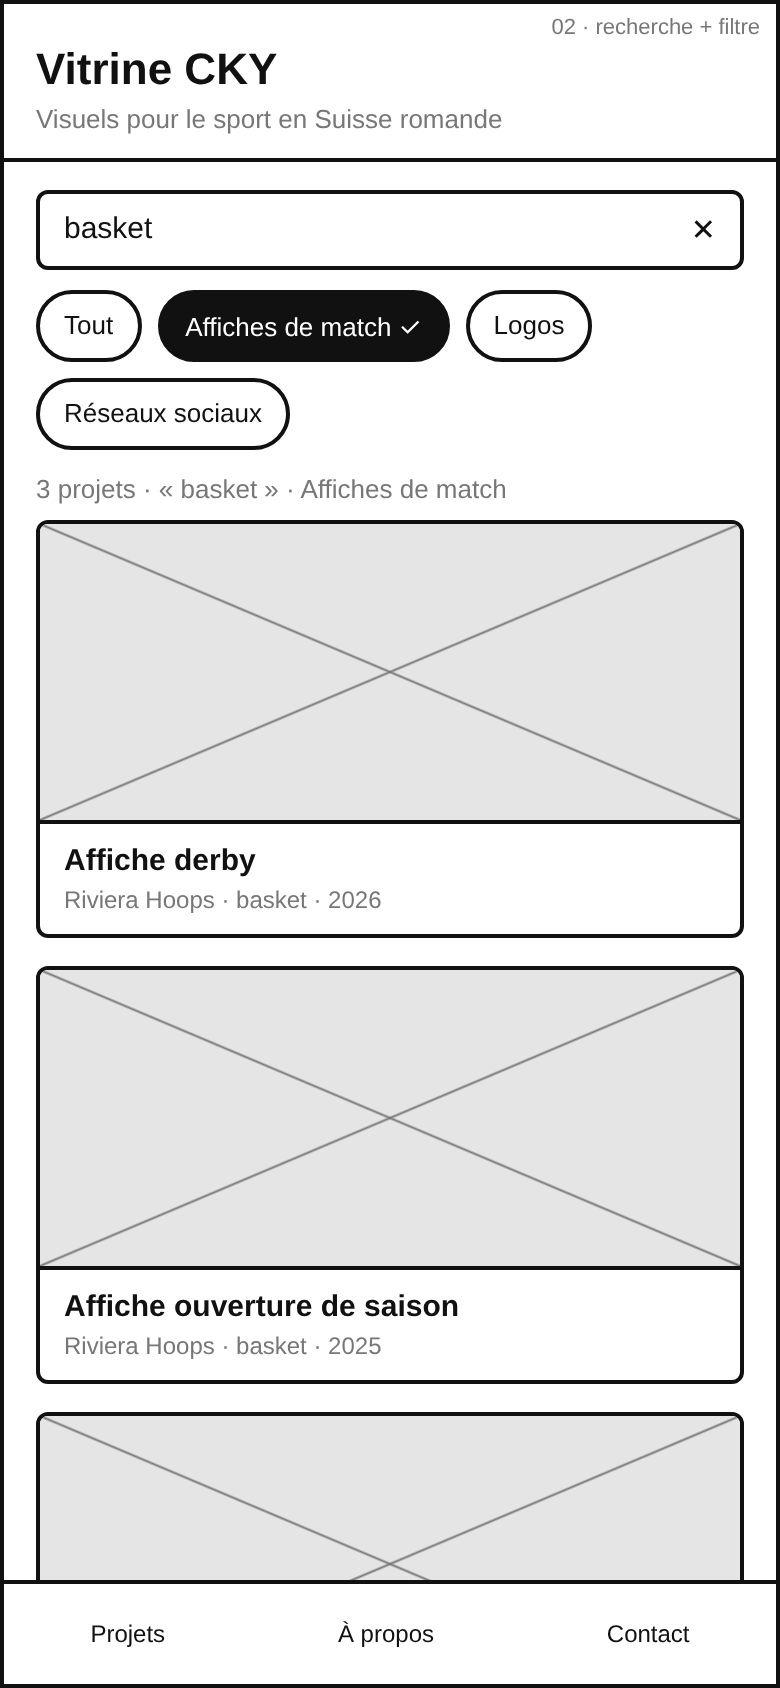
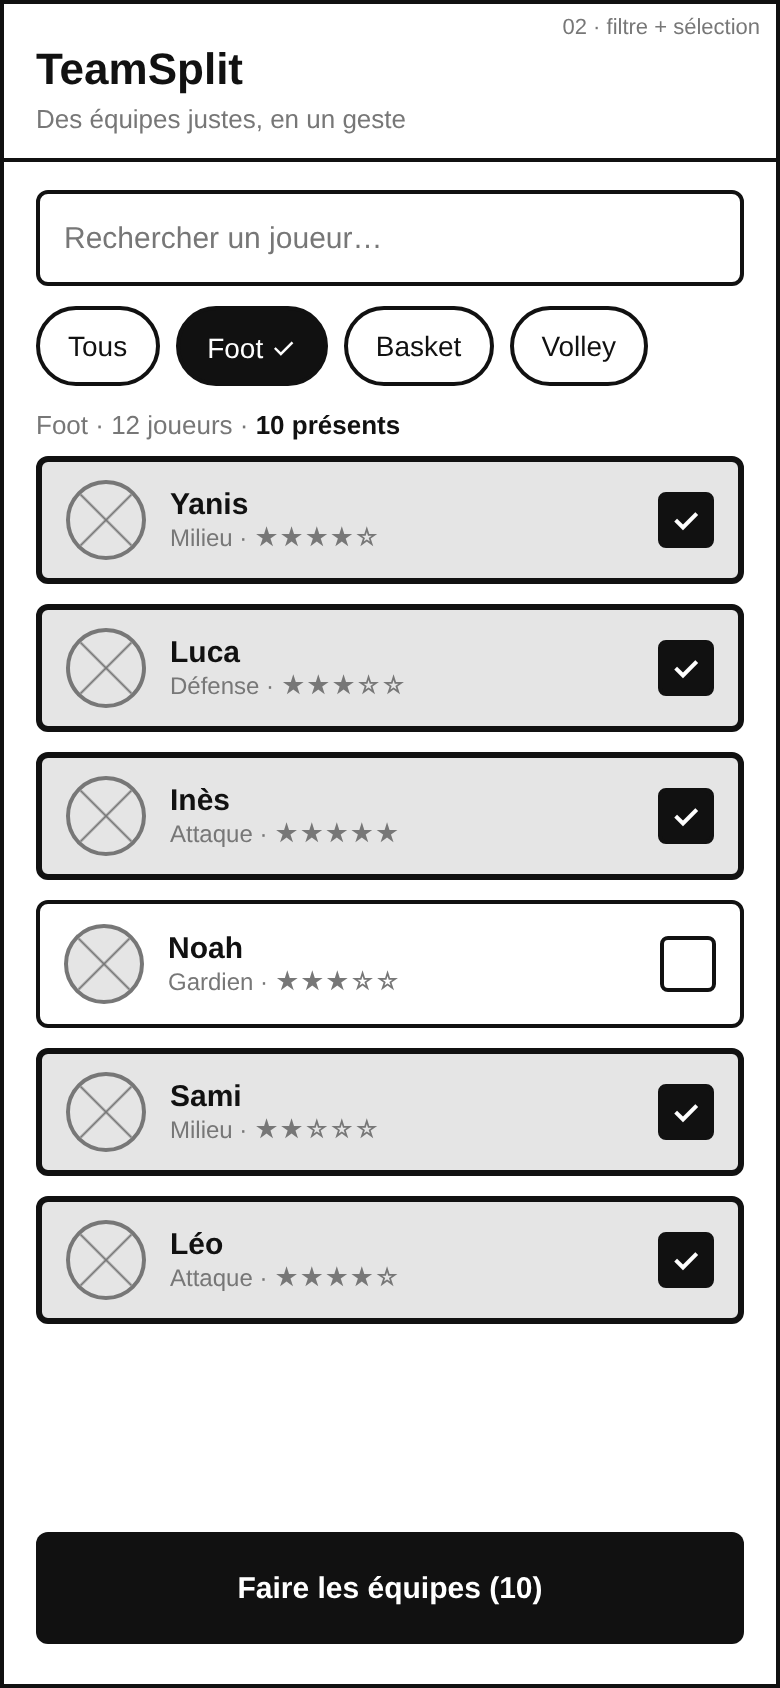
Refait les 3 wireframes mobiles pour TeamSplit
Claude-Session: https://claude.ai/code/session_014bpzwAFyoYVvidTmmvTUgp

diff --git a/design/wireframes/wireframes.html b/design/wireframes/wireframes.html
@@ -3,7 +3,7 @@
 <head>
 <meta charset="utf-8">
 <meta name="viewport" content="width=device-width, initial-scale=1">
-<title>Wireframes · Vitrine CKY</title>
+<title>Wireframes · TeamSplit</title>
 <style>
   /* Basse fidélité : uniquement noir, blanc et gris. */
   :root { --noir:#111; --gris:#777; --clair:#e5e5e5; --fond:#fff; }
@@ -16,80 +16,76 @@
   header .sous { font-size:13px; color:var(--gris); margin-top:4px; }
   .recherche { margin:14px 16px 10px; height:48px; border:2px solid var(--noir); border-radius:6px; display:flex; align-items:center; padding:0 12px; font-size:15px; color:var(--gris); }
   .recherche.rempli { color:var(--noir); }
-  .puces { display:flex; gap:8px; padding:0 16px 12px; flex-wrap:wrap; }
-  .puce { height:36px; padding:0 12px; border:2px solid var(--noir); border-radius:18px; display:flex; align-items:center; font-size:13px; }
+  .puces { display:flex; gap:8px; padding:0 16px 12px; }
+  .puce { height:40px; padding:0 14px; border:2px solid var(--noir); border-radius:20px; display:flex; align-items:center; font-size:14px; }
   .puce.on { background:var(--noir); color:#fff; }
   .compteur { padding:0 16px 8px; font-size:13px; color:var(--gris); }
-  .liste { padding:0 16px; display:flex; flex-direction:column; gap:14px; overflow:hidden; }
-  .carte { border:2px solid var(--noir); border-radius:6px; overflow:hidden; flex-shrink:0; }
-  .img { position:relative; background:var(--clair); height:150px; border-bottom:2px solid var(--noir); }
-  .img::before, .img::after { content:""; position:absolute; inset:0; background:linear-gradient(to top right, transparent calc(50% - 1px), var(--gris) 50%, transparent calc(50% + 1px)); }
-  .img::after { background:linear-gradient(to top left, transparent calc(50% - 1px), var(--gris) 50%, transparent calc(50% + 1px)); }
-  .img.grand { height:300px; }
-  .infos { padding:10px 12px; }
-  .ligne { height:12px; background:var(--noir); border-radius:2px; width:70%; margin-bottom:8px; }
-  .ligne.gris { background:#bbb; width:45%; height:10px; margin:0; }
+  .compteur b { color:var(--noir); }
+  .liste { padding:0 16px; display:flex; flex-direction:column; gap:10px; }
+  .joueur { flex-shrink:0; height:64px; border:2px solid var(--noir); border-radius:6px; display:flex; align-items:center; gap:12px; padding:0 12px; }
+  .joueur.on { background:var(--clair); border-width:3px; }
+  .avatar { width:40px; height:40px; border-radius:50%; border:2px solid var(--gris); position:relative; overflow:hidden; background:var(--clair); }
+  .avatar::before, .avatar::after { content:""; position:absolute; inset:0; background:linear-gradient(45deg, transparent calc(50% - 1px), var(--gris) 50%, transparent calc(50% + 1px)); }
+  .avatar::after { background:linear-gradient(-45deg, transparent calc(50% - 1px), var(--gris) 50%, transparent calc(50% + 1px)); }
+  .qui { flex:1; }
   .label { font-size:15px; font-weight:700; }
-  .meta { font-size:12px; color:var(--gris); margin-top:4px; }
-  .detail { padding:16px; }
-  .detail h2 { margin:0 0 6px; font-size:22px; }
-  .tableau { display:grid; grid-template-columns:auto 1fr; gap:6px 14px; font-size:13px; margin:14px 0; }
-  .tableau dt { color:var(--gris); } .tableau dd { margin:0; }
-  .texte .ligne { background:#bbb; height:10px; width:100%; } .texte .ligne:last-child { width:60%; }
-  .retour { font-size:14px; padding:14px 16px; border-bottom:2px solid var(--noir); }
+  .meta { font-size:12px; color:var(--gris); }
+  .case { width:28px; height:28px; border:2px solid var(--noir); border-radius:4px; display:flex; align-items:center; justify-content:center; font-weight:700; }
+  .joueur.on .case { background:var(--noir); color:#fff; }
   .cta { position:absolute; left:16px; right:16px; bottom:20px; height:56px; background:var(--noir); color:#fff; border-radius:6px; display:flex; align-items:center; justify-content:center; font-weight:700; font-size:15px; }
-  .nav { margin-top:auto; height:64px; border-top:2px solid var(--noir); display:flex; justify-content:space-around; align-items:center; font-size:12px; background:#fff; position:relative; z-index:1; }
+  .cta.off { background:var(--clair); color:var(--gris); border:2px dashed var(--gris); }
+  .aide { position:absolute; left:16px; right:16px; bottom:84px; font-size:12px; color:var(--gris); text-align:center; }
+  .retour { font-size:14px; padding:14px 16px; border-bottom:2px solid var(--noir); }
+  .contenu { padding:16px; }
+  .contenu h2 { margin:0 0 4px; font-size:22px; }
+  .ecart { font-size:14px; margin-bottom:14px; border:2px solid var(--noir); border-radius:6px; padding:10px 12px; }
+  .colonnes { display:grid; grid-template-columns:1fr 1fr; gap:10px; }
+  .equipe { border:2px solid var(--noir); border-radius:6px; padding:10px; }
+  .eq-titre { font-weight:700; font-size:17px; }
+  .total { font-size:12px; margin:2px 0 8px; padding-bottom:8px; border-bottom:2px solid var(--noir); }
+  .equipe ul { list-style:none; margin:0; padding:0; }
+  .equipe li { display:flex; flex-direction:column; padding:6px 0; border-bottom:1px solid var(--clair); font-size:14px; }
+  .boutons { position:absolute; left:16px; right:16px; bottom:20px; display:grid; grid-template-columns:1fr 1fr; gap:10px; }
+  .boutons div { height:56px; border-radius:6px; display:flex; align-items:center; justify-content:center; font-weight:700; font-size:15px; border:2px solid var(--noir); }
+  .boutons .plein { background:var(--noir); color:#fff; }
 </style>
 </head>
 <body>
 
-<!-- Écran 1 : accueil et exploration -->
+<!-- Écran 1 : accueil et liste des joueurs -->
 <section class="ecran" id="s1">
   <span class="note">01 · accueil</span>
-  <header><div class="titre">Vitrine CKY</div><div class="sous">Visuels pour le sport en Suisse romande</div></header>
-  <div class="recherche">Rechercher un sport, un club…</div>
-  <div class="puces"><span class="puce on">Tout</span><span class="puce">Affiches de match</span><span class="puce">Logos</span><span class="puce">Réseaux sociaux</span></div>
-  <div class="compteur">12 projets</div>
-  <div class="liste">
-    <div class="carte"><div class="img"></div><div class="infos"><div class="label">Titre du projet</div><div class="meta">Club · sport · année</div></div></div>
-    <div class="carte"><div class="img"></div><div class="infos"><div class="label">Titre du projet</div><div class="meta">Club · sport · année</div></div></div>
-    <div class="carte"><div class="img"></div><div class="infos"><div class="label">Titre du projet</div><div class="meta">Club · sport · année</div></div></div>
-  </div>
-  <nav class="nav"><span>Projets</span><span>À propos</span><span>Contact</span></nav>
+  <header><div class="titre">TeamSplit</div><div class="sous">Des équipes justes, en un geste</div></header>
+  <div class="recherche">Rechercher un joueur…</div>
+  <div class="puces"><span class="puce on">Tous</span><span class="puce">Foot</span><span class="puce">Basket</span><span class="puce">Volley</span></div>
+  <div class="compteur">14 joueurs · <b>0 présent</b></div>
+  <div class="liste"><div class="joueur"><div class="avatar"></div><div class="qui"><div class="label">Prénom</div><div class="meta">Poste · ★★★☆☆</div></div><div class="case"></div></div><div class="joueur"><div class="avatar"></div><div class="qui"><div class="label">Prénom</div><div class="meta">Poste · ★★★★☆</div></div><div class="case"></div></div><div class="joueur"><div class="avatar"></div><div class="qui"><div class="label">Prénom</div><div class="meta">Poste · ★★☆☆☆</div></div><div class="case"></div></div><div class="joueur"><div class="avatar"></div><div class="qui"><div class="label">Prénom</div><div class="meta">Poste · ★★★★★</div></div><div class="case"></div></div><div class="joueur"><div class="avatar"></div><div class="qui"><div class="label">Prénom</div><div class="meta">Poste · ★★★☆☆</div></div><div class="case"></div></div><div class="joueur"><div class="avatar"></div><div class="qui"><div class="label">Prénom</div><div class="meta">Poste · ★★★★☆</div></div><div class="case"></div></div></div>
+  <div class="aide">Coche au moins 4 joueurs</div>
+  <div class="cta off">Faire les équipes</div>
 </section>
 
-<!-- Écran 2 : vue filtrée -->
+<!-- Écran 2 : vue filtrée et sélection des présents -->
 <section class="ecran" id="s2">
-  <span class="note">02 · recherche + filtre</span>
-  <header><div class="titre">Vitrine CKY</div><div class="sous">Visuels pour le sport en Suisse romande</div></header>
-  <div class="recherche rempli"><span>basket</span><span style="margin-left:auto">✕</span></div>
-  <div class="puces"><span class="puce">Tout</span><span class="puce on">Affiches de match ✓</span><span class="puce">Logos</span><span class="puce">Réseaux sociaux</span></div>
-  <div class="compteur">3 projets · « basket » · Affiches de match</div>
-  <div class="liste">
-    <div class="carte"><div class="img"></div><div class="infos"><div class="label">Affiche derby</div><div class="meta">Riviera Hoops · basket · 2026</div></div></div>
-    <div class="carte"><div class="img"></div><div class="infos"><div class="label">Affiche ouverture de saison</div><div class="meta">Riviera Hoops · basket · 2025</div></div></div>
-    <div class="carte"><div class="img"></div><div class="infos"><div class="label">Affiche finale U18</div><div class="meta">BC Lavaux · basket · 2025</div></div></div>
-  </div>
-  <nav class="nav"><span>Projets</span><span>À propos</span><span>Contact</span></nav>
+  <span class="note">02 · filtre + sélection</span>
+  <header><div class="titre">TeamSplit</div><div class="sous">Des équipes justes, en un geste</div></header>
+  <div class="recherche">Rechercher un joueur…</div>
+  <div class="puces"><span class="puce">Tous</span><span class="puce on">Foot ✓</span><span class="puce">Basket</span><span class="puce">Volley</span></div>
+  <div class="compteur">Foot · 12 joueurs · <b>10 présents</b></div>
+  <div class="liste"><div class="joueur on"><div class="avatar"></div><div class="qui"><div class="label">Yanis</div><div class="meta">Milieu · ★★★★☆</div></div><div class="case">✓</div></div><div class="joueur on"><div class="avatar"></div><div class="qui"><div class="label">Luca</div><div class="meta">Défense · ★★★☆☆</div></div><div class="case">✓</div></div><div class="joueur on"><div class="avatar"></div><div class="qui"><div class="label">Inès</div><div class="meta">Attaque · ★★★★★</div></div><div class="case">✓</div></div><div class="joueur"><div class="avatar"></div><div class="qui"><div class="label">Noah</div><div class="meta">Gardien · ★★★☆☆</div></div><div class="case"></div></div><div class="joueur on"><div class="avatar"></div><div class="qui"><div class="label">Sami</div><div class="meta">Milieu · ★★☆☆☆</div></div><div class="case">✓</div></div><div class="joueur on"><div class="avatar"></div><div class="qui"><div class="label">Léo</div><div class="meta">Attaque · ★★★★☆</div></div><div class="case">✓</div></div></div>
+  <div class="cta">Faire les équipes (10)</div>
 </section>
 
-<!-- Écran 3 : fiche détaillée -->
+<!-- Écran 3 : équipes générées -->
 <section class="ecran" id="s3">
-  <span class="note">03 · fiche détail</span>
-  <div class="retour">← Retour aux projets</div>
-  <div class="img grand"></div>
-  <div class="detail">
-    <h2>Affiche derby</h2>
-    <div class="meta">Riviera Hoops vs Lausanne</div>
-    <dl class="tableau">
-      <dt>Sport</dt><dd>Basket</dd>
-      <dt>Format</dt><dd>Affiche A3 + story Instagram</dd>
-      <dt>Année</dt><dd>2026</dd>
-      <dt>Délai</dt><dd>5 jours</dd>
-    </dl>
-    <div class="texte"><div class="ligne"></div><div class="ligne"></div><div class="ligne"></div></div>
+  <span class="note">03 · équipes</span>
+  <div class="retour">← Modifier les présents</div>
+  <div class="contenu">
+    <h2>Tes équipes</h2>
+    <div class="meta" style="margin-bottom:12px">Foot · 10 joueurs · jeudi soir</div>
+    <div class="ecart">Écart de niveau : <b>1 point</b> (17 contre 16)</div>
+    <div class="colonnes"><div class="equipe"><div class="eq-titre">Équipe A</div><div class="total">Niveau total : 17</div><ul><li><span>Inès</span><span class="meta">Attaque · 5</span></li><li><span>Luca</span><span class="meta">Défense · 3</span></li><li><span>Sami</span><span class="meta">Milieu · 2</span></li><li><span>Maé</span><span class="meta">Gardien · 4</span></li><li><span>Tom</span><span class="meta">Milieu · 3</span></li></ul></div><div class="equipe"><div class="eq-titre">Équipe B</div><div class="total">Niveau total : 16</div><ul><li><span>Yanis</span><span class="meta">Milieu · 4</span></li><li><span>Léo</span><span class="meta">Attaque · 4</span></li><li><span>Noah</span><span class="meta">Gardien · 3</span></li><li><span>Eli</span><span class="meta">Défense · 3</span></li><li><span>Zoé</span><span class="meta">Milieu · 2</span></li></ul></div></div>
   </div>
-  <div class="cta">Demander un devis pour ce style</div>
+  <div class="boutons"><div>↻ Remélanger</div><div class="plein">Partager</div></div>
 </section>
 
 </body>
